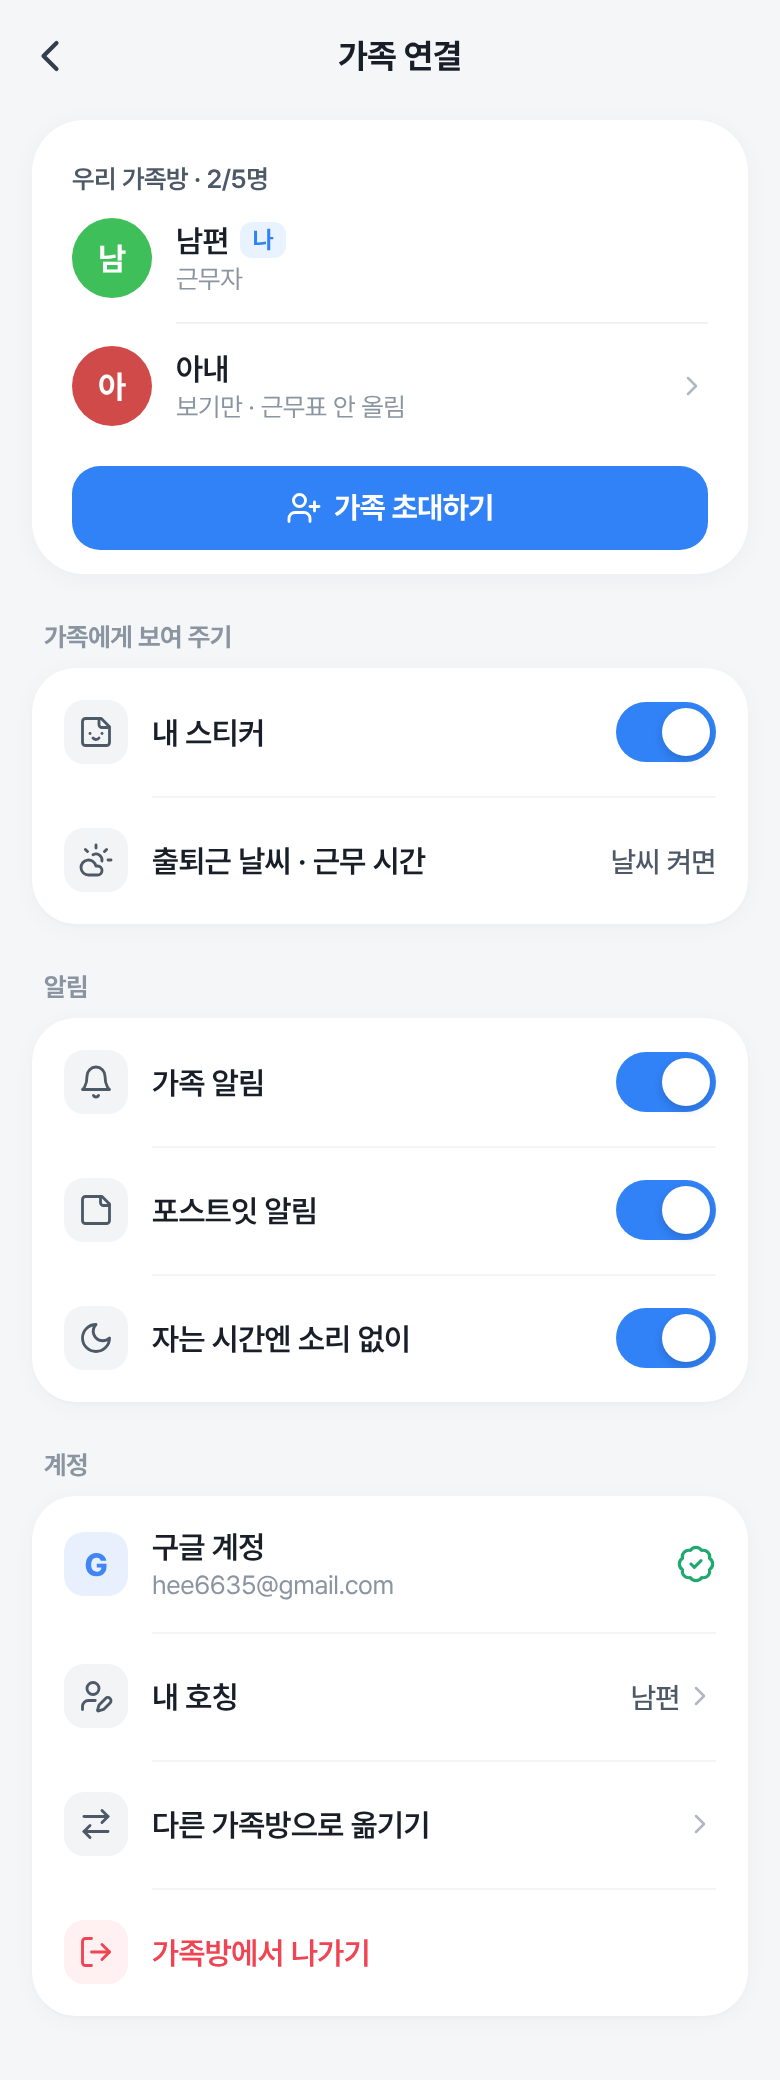
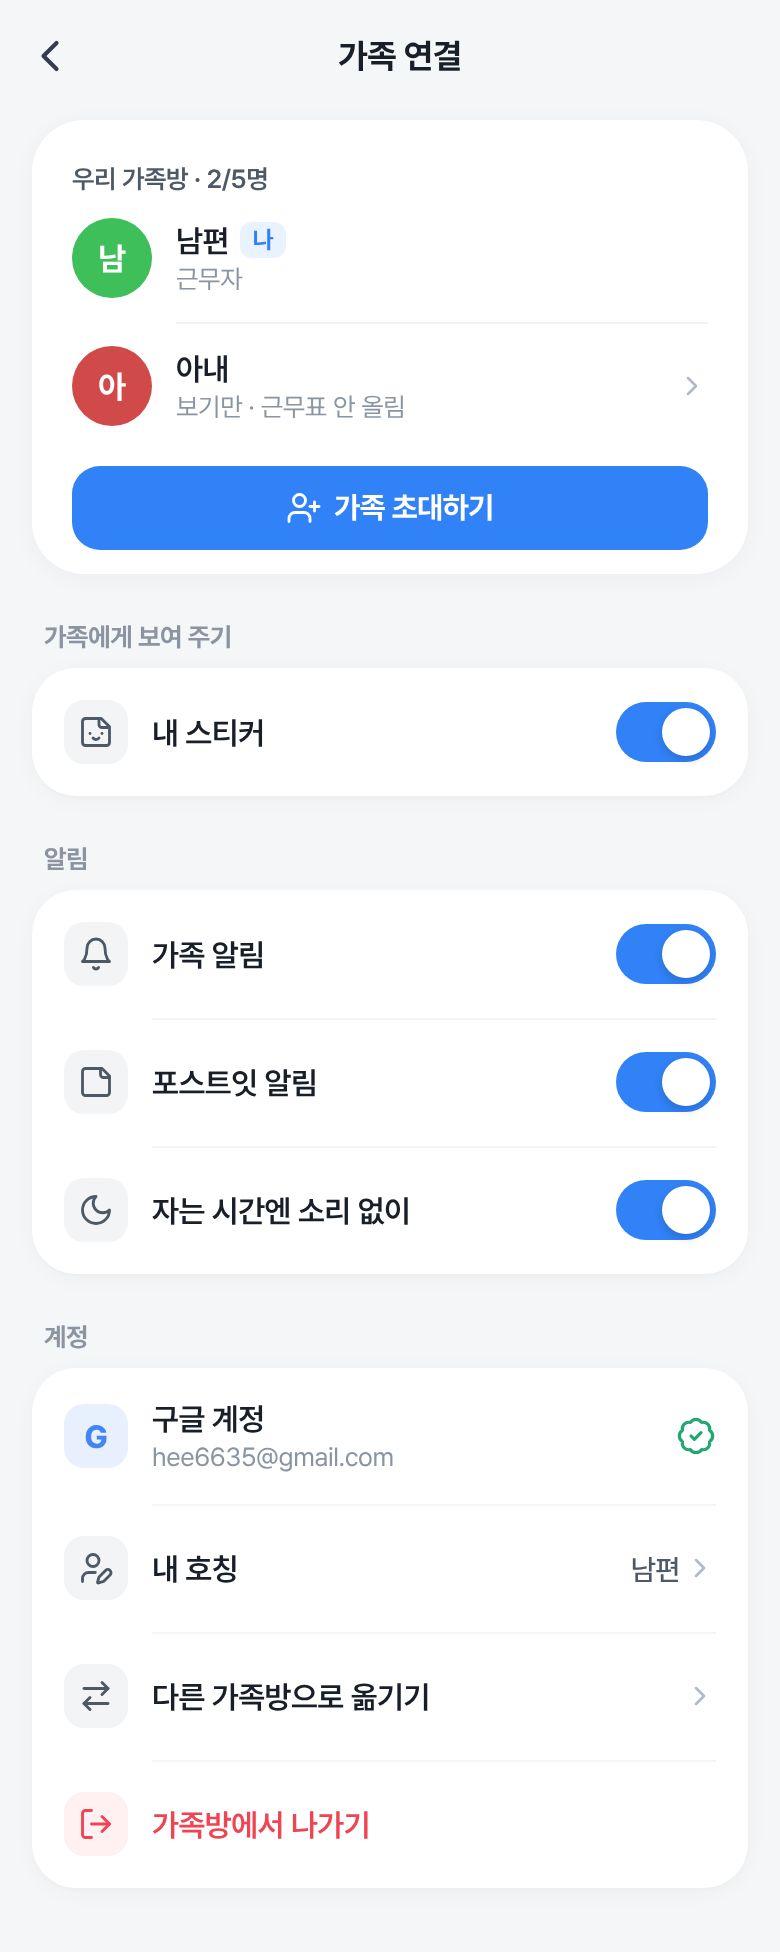
design: 가족 연결 날씨 안내 줄 빼기
Claude-Session: https://claude.ai/code/session_01JTBnEvptp151JygSjZNCTX

diff --git a/design/family-link/v1.html b/design/family-link/v1.html
@@ -121,25 +121,7 @@ h2{font-size:13px;font-weight:700;color:var(--ink3);margin:24px 6px 8px}
   <path d="M16 13h.01" />
   <path d="M10 16s.8 1 2 1c1.3 0 2-1 2-1" />
 </svg></span><div class="l"><div class="n">내 스티커</div></div><span class="tg on"></span></div>
-<div class="r "><span class="ti"><svg
-  class="lucide lucide-cloud-sun"
-  xmlns="http://www.w3.org/2000/svg"
-  width="18"
-  height="18"
-  viewBox="0 0 24 24"
-  fill="none"
-  stroke="currentColor"
-  stroke-width="1.9"
-  stroke-linecap="round"
-  stroke-linejoin="round"
->
-  <path d="M12 2v2" />
-  <path d="m4.93 4.93 1.41 1.41" />
-  <path d="M20 12h2" />
-  <path d="m19.07 4.93-1.41 1.41" />
-  <path d="M15.947 12.65a4 4 0 0 0-5.925-4.128" />
-  <path d="M13 22H7a5 5 0 1 1 4.9-6H13a3 3 0 0 1 0 6Z" />
-</svg></span><div class="l"><div class="n">출퇴근 날씨 · 근무 시간</div></div><span class="v">날씨 켜면</span></div>
+
 </div>
 <h2>알림</h2><div class="g">
 <div class="r "><span class="ti"><svg

diff --git a/docs/TODO.md b/docs/TODO.md
@@ -2471,5 +2471,5 @@
 4. AI 티 줄이기 ①~③ (오늘 색 · 보라 그라데이션 · 라벨 이모지)
 5. v0.144 코드 점검 고칠 거리 ①~⑤
 6. 필요 없는 설명문 줄이기 (화면별 남길 것 / 뺄 것 목록 먼저)
-7. 가족 연결 화면 = design/family-link/v1.html (위 칸 흰 바탕 · 그라데이션 없음: 가족방 인원 · 가족 줄 · 파란 초대 버튼 / 가족에게 보여 주기(내 스티커 · 출퇴근 날씨는 날씨 켜면) / 알림 3개 / 계정(구글 · 내 호칭 · 옮기기 · 나가기 빨간 줄). 맨 아래 긴 규칙 글은 화면에서 뺌 → 이럴 땐 이렇게 › 가족에 팁 2개로: '가족을 빼고 싶어요'(방장 없음 · 과반 찬성 · 30일 안 들어온 사람 · 내가 초대한 지 하루 안 된 사람은 바로) · '가족 메모 · 근무 요청 무료 횟수'(합쳐서 처음 10건).
+7. 가족 연결 화면 = design/family-link/v1.html (위 칸 흰 바탕 · 그라데이션 없음: 가족방 인원 · 가족 줄 · 파란 초대 버튼 / 가족에게 보여 주기(내 스티커만 · 출퇴근 날씨 안내 줄은 뺌: 누를 것도 없는 안내라서) / 알림 3개 / 계정(구글 · 내 호칭 · 옮기기 · 나가기 빨간 줄). 맨 아래 긴 규칙 글은 화면에서 뺌 → 이럴 땐 이렇게 › 가족에 팁 2개로: '가족을 빼고 싶어요'(방장 없음 · 과반 찬성 · 30일 안 들어온 사람 · 내가 초대한 지 하루 안 된 사람은 바로) · '가족 메모 · 근무 요청 무료 횟수'(합쳐서 처음 10건).
 - 만들 때 순서: eonje-release 스킬대로 (시험 · 옛 데이터 시험 · 버전 · 문서 · 두 브랜치 · 빌드 확인).
